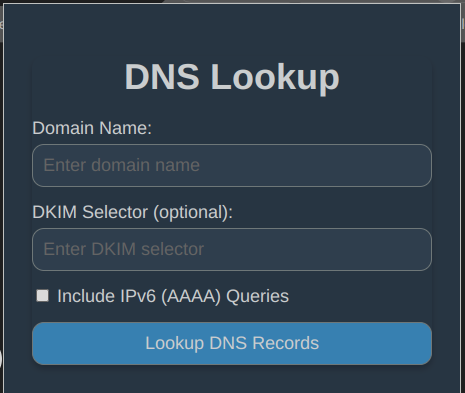
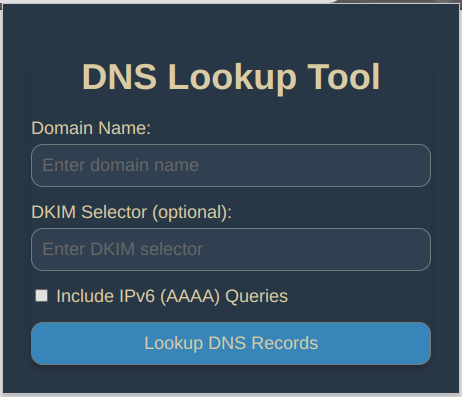
24.2

diff --git a/popup.css b/popup.css
@@ -23,7 +23,7 @@ body {
     background-color: var(--popup-bg-color);
     color: var(--text-color);
     padding: 20px;
-    min-width: 300px; /* Increased width for a wider layout */
+    min-width: 400px; /* Increased width for a wider layout */
     max-width: 600px; /* Adjusted max width for flexibility */
     border-radius: var(--border-radius);
     font-size: var(--font-size);
